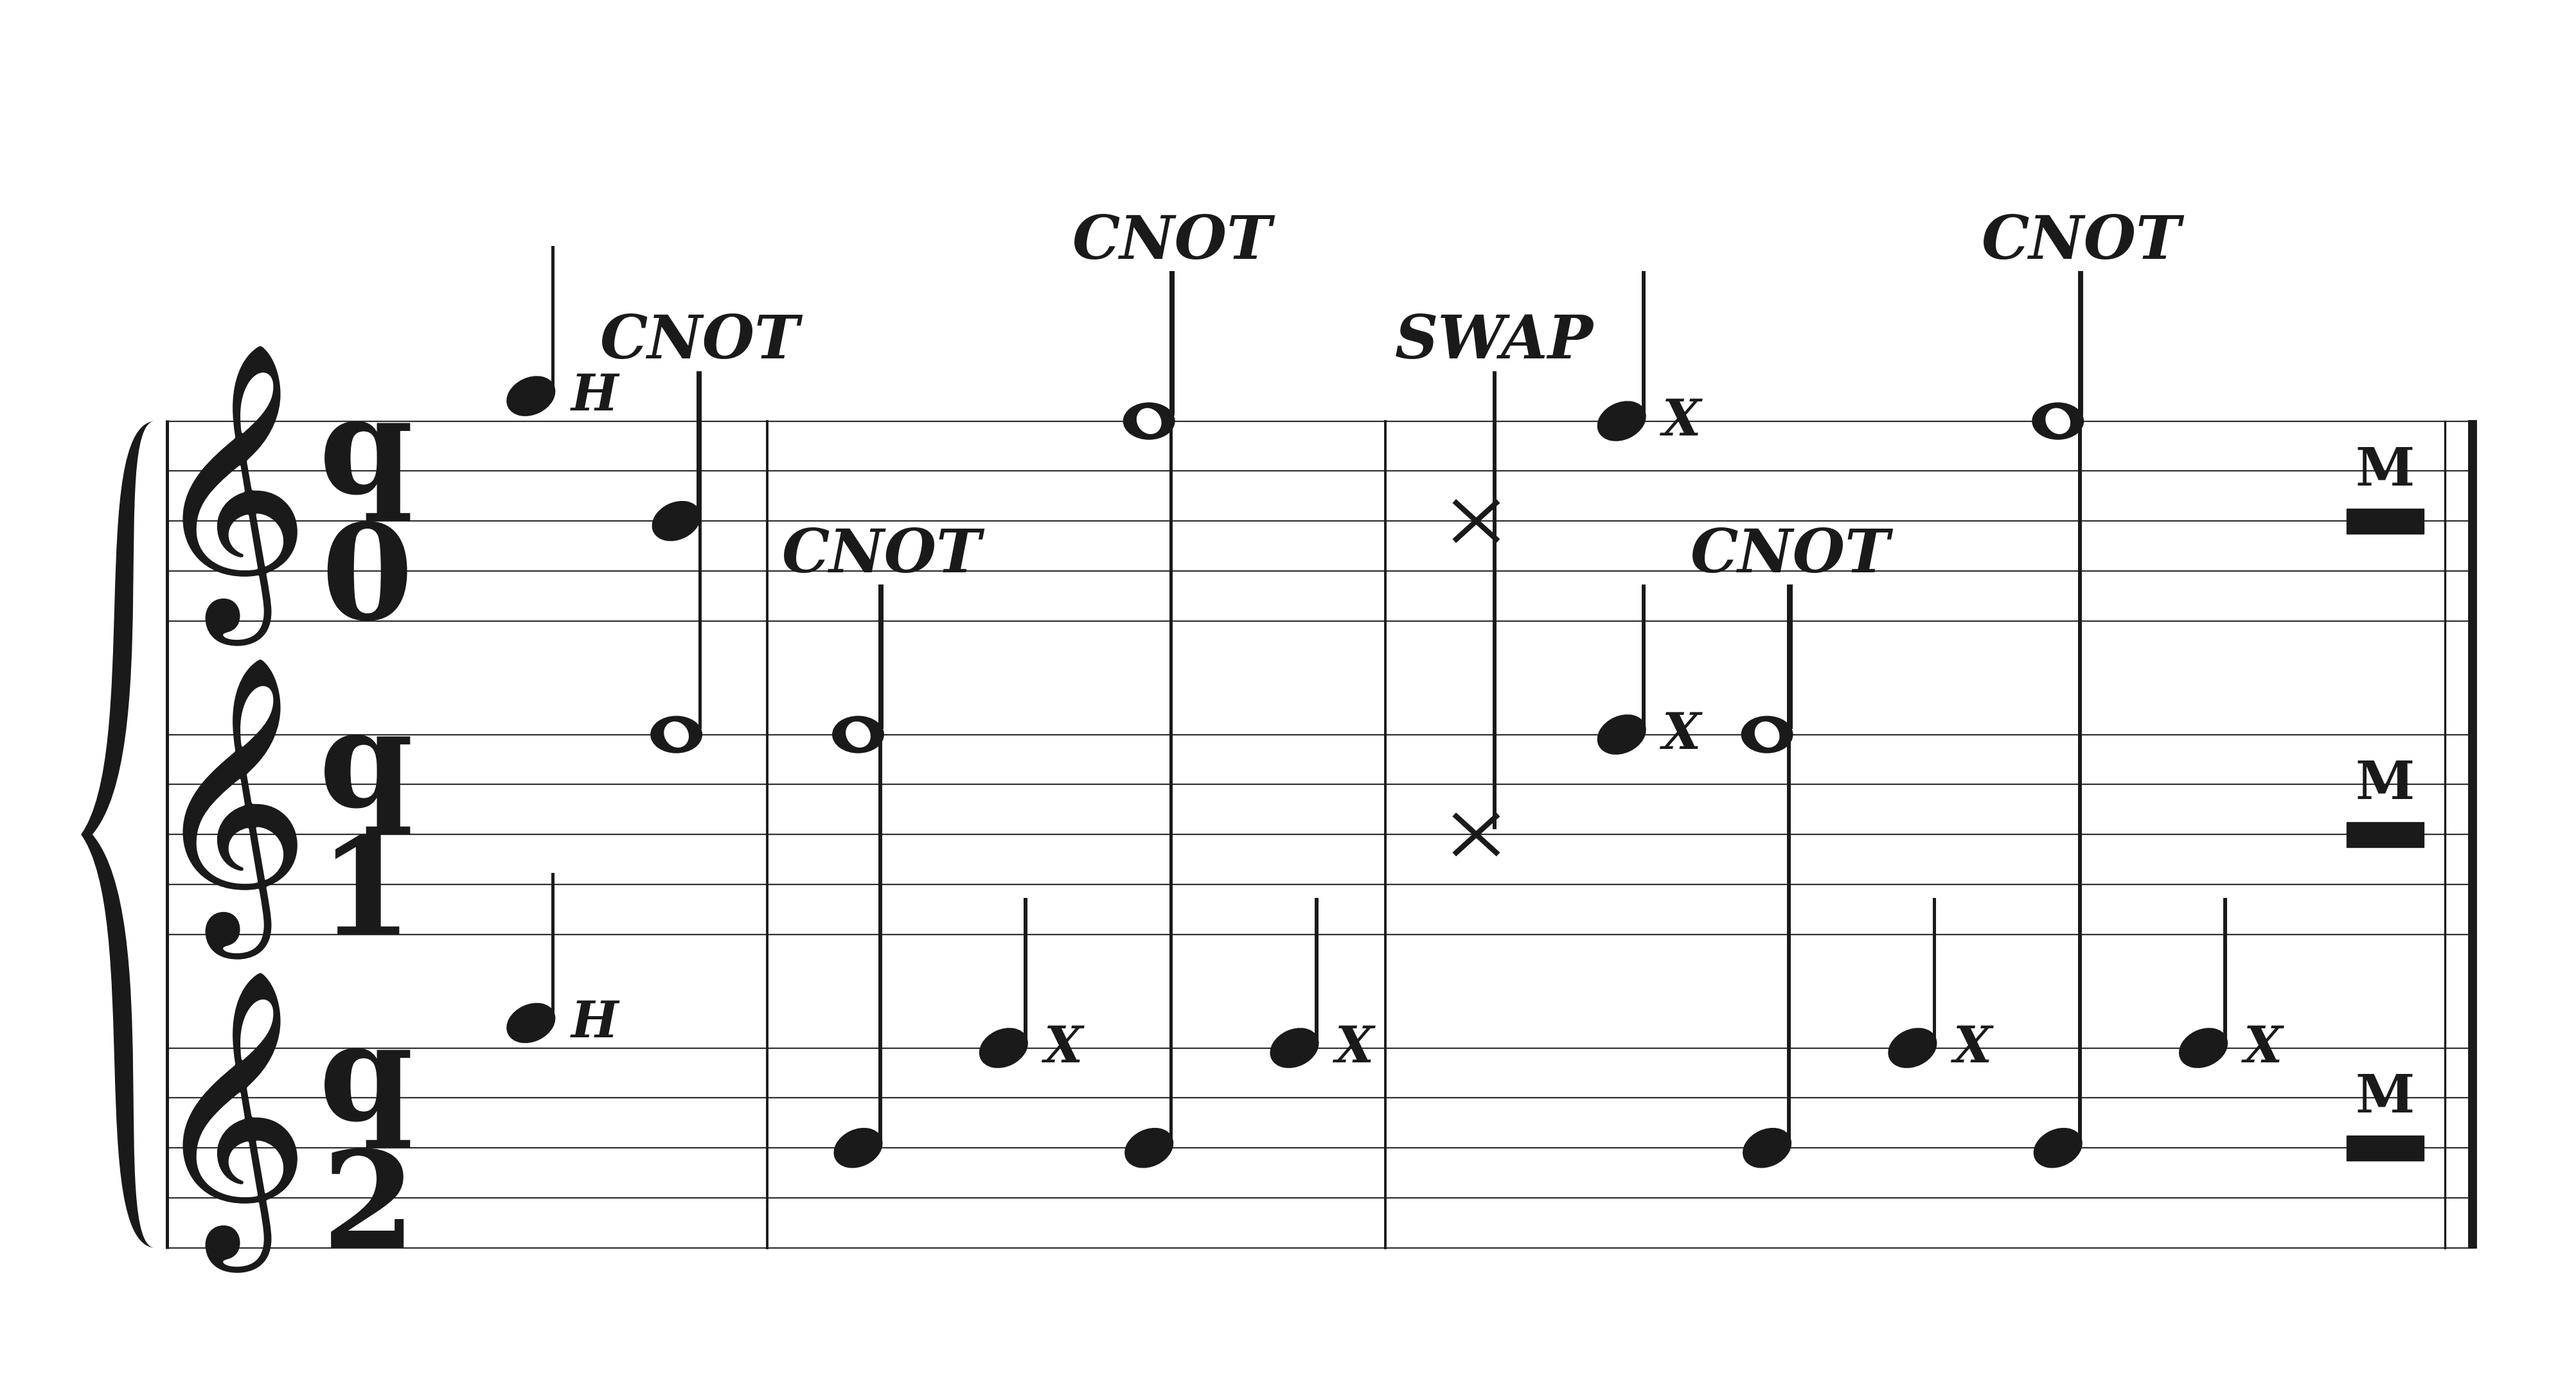
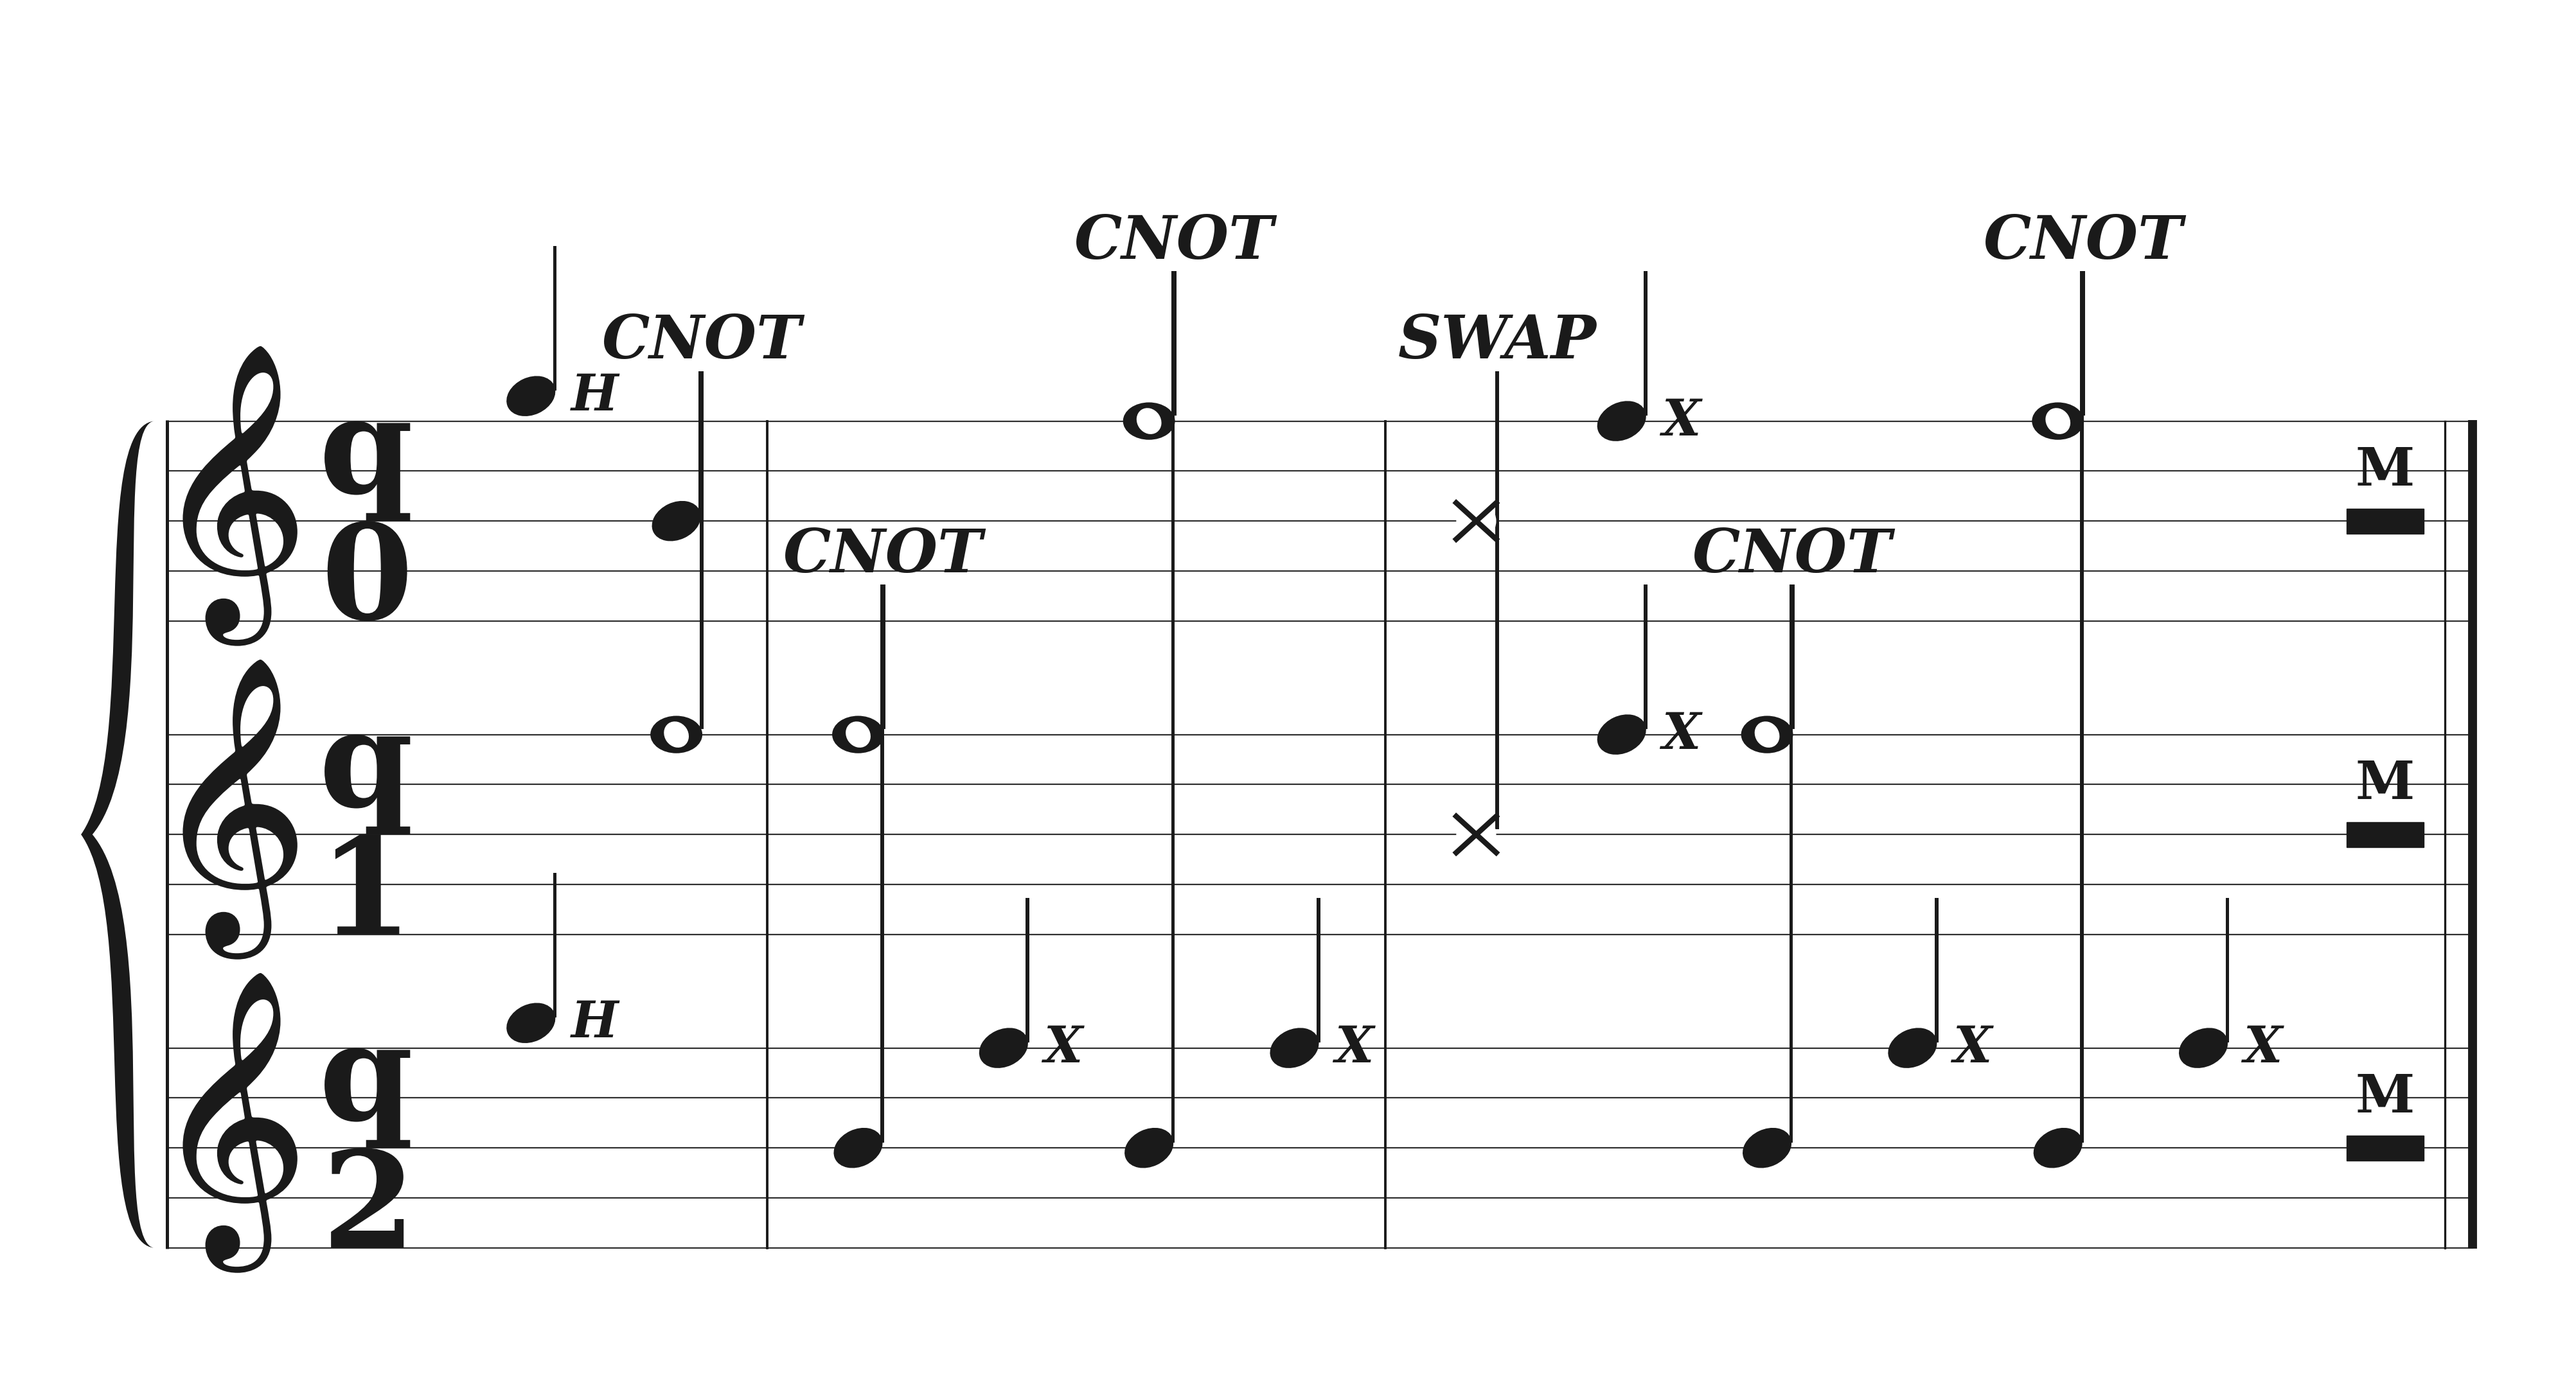
Perfectly align stem with the right edge for SWAP and whole notes, bump version to 0.1.3

diff --git a/QuantumSheets/render.py b/QuantumSheets/render.py
@@ -58,7 +58,7 @@ NOTE_W          = 0.55          # width of notehead ellipse (data units)
 NOTE_H          = 0.40          # height of notehead ellipse
 NOTE_TILT       = 25           # degrees – real noteheads tilt slightly
 HALF_LW         = 2.2           # stroke width for half-note ring
-WHOLE_W         = 0.56          # whole note width
+WHOLE_W         = 0.528         # whole note width (matches stem offset)
 WHOLE_H         = 0.40
 WHOLE_LW        = 2.8           # thicker stroke so whole notes look full
 WHOLE_INNER_W   = 0.26          # inner ellipse to create the classic "double-ring" whole note look
@@ -151,11 +151,11 @@ def _draw_notehead(ax, x, y, kind="black", ink="#1a1a1a", bg="#ffffff"):
         )
         ax.add_patch(e_in)
     elif kind == "x_note":
-        # Draw a thick 'x' cross
-        hx = NOTE_W * 0.4
+        # Draw a thick 'x' cross extending exactly to the stem
+        hx = STEM_X_OFFSET
         hy = NOTE_H * 0.5
         # Background to hide the stem passing under the x
-        bg_circle = mpatches.Circle((x, y), NOTE_W * 0.4, facecolor=bg, edgecolor='none', zorder=7.5)
+        bg_circle = mpatches.Circle((x, y), STEM_X_OFFSET * 0.95, facecolor=bg, edgecolor='none', zorder=7.5)
         ax.add_patch(bg_circle)
         ax.plot([x - hx, x + hx], [y - hy, y + hy], color=ink, lw=3.0, zorder=8)
         ax.plot([x - hx, x + hx], [y + hy, y - hy], color=ink, lw=3.0, zorder=8)
@@ -368,7 +368,7 @@ class StaffCircuitDrawer:
 
         if stem and kind not in ("whole",):
             stem_top = y + STEM_LEN
-            stem_x = x + (0.28 if kind == "whole" else (0.23 if kind == "x_note" else STEM_X_OFFSET))
+            stem_x = x + STEM_X_OFFSET
             _draw_stem(ax, stem_x, y, stem_top, ink=ink)
             if flag:
                 _draw_flag(ax, stem_x, stem_top, ink=ink)
@@ -419,7 +419,7 @@ class StaffCircuitDrawer:
         for i, (q, y_note, kind) in enumerate(notes):
             x_note = x  # all chord notes share the same x-coordinate
 
-            stem_offset = 0.28 if kind == "whole" else (0.23 if kind == "x_note" else STEM_X_OFFSET)
+            stem_offset = STEM_X_OFFSET
             stem_x = x_note + stem_offset
             stem_xs.append(stem_x)
 
